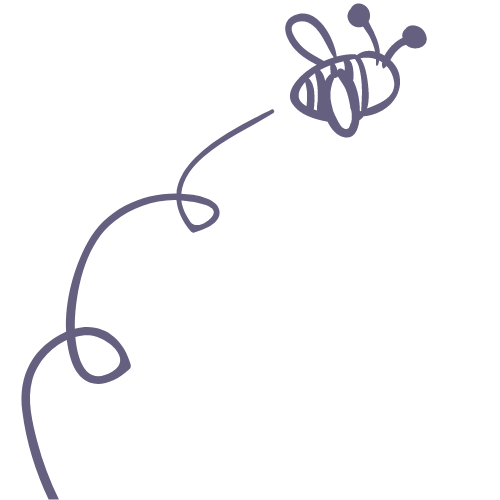
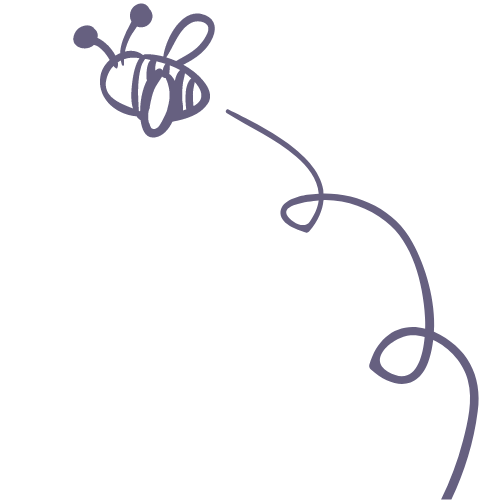
style fixes

diff --git a/src/pages/Calendar.css b/src/pages/Calendar.css
@@ -7,19 +7,17 @@
   max-width: 1000px;
   min-height: 600px;
   height: 800px;
-  border-radius: 10px;
 }
 
 .calendarContainer {
   background-repeat: no-repeat;
   background-size: auto;
-  border-radius: 10px;
-  padding: 2%;
  }
 
 .calendarBody {
   background-image: url("../assets/swe_bug_pattern.png");
   background-position: center;
+  background-attachment: fixed;
 }
 
 .titleText {
@@ -49,10 +47,15 @@
 .iconLabels {
   padding: 0px;
   margin: 0px;
-  color: var(--medium-purple);
 }
 
 .divider {
   border: 1px solid var(--gold);
   width: 150px;
+}
+
+@media screen and (max-width: 600px) {
+  .calendarBody  {
+    background-attachment: scroll;
+  }
 }

diff --git a/src/App.css b/src/App.css
@@ -3,7 +3,7 @@
   --gold:  #DBC554;
   --gray: #A9A8A9;
   --dark-gray: #545759;
-  --light-purple: #e6e2f2;
+  --light-purple: #f3f0fd;
   --medium-purple: #7D6890;
   --max-width: 1100px;
 }
@@ -35,6 +35,10 @@
 .margin {
   padding: 50px 8%;
   overflow: auto;
+}
+
+.center {
+  text-align: center;
 }
 
 @keyframes textAnimation {
@@ -152,6 +156,13 @@ html {
 .em {
   font-family: 'Caveat', cursive;
   font-size: 1.3rem;
+  font-weight: 400;
+  animation: textAnimation 1s linear;
+}
+
+.italic {
+  font-family: 'Caveat', cursive;
+  font-size: 2.0rem;
   font-weight: 400;
   animation: textAnimation 1s linear;
 }

diff --git a/src/pages/Calendar.js b/src/pages/Calendar.js
@@ -11,9 +11,9 @@ function Calendar() {
     <div>
       <div className="margin">
         <h1 className="h2 purple titleText">Our Events</h1>
-        <p className="purple em quote">Bee there or bee square</p>
         <hr className="divider" />
-        <div className="em iconsContainer">
+        <p className="mediumPurple center italic">Bee there or bee square!</p>
+        <div className="purple p1 iconsContainer">
           <div className="iconContainer">
             <img className="purpleFilter eventIcon" src={SocialIcon} alt="" />
             <p className="iconLabels">Social</p>

diff --git a/src/pages/GetInvolved.js b/src/pages/GetInvolved.js
@@ -97,7 +97,7 @@ function GetInvolved() {
       </div>
       <div className="margin lightPurpleBg">
         <p className="h2 purple">Other Programs</p>
-        <p className="em mediumPurple">More ways to get involved!</p>
+        <p className="italic mediumPurple">More ways to get involved!</p>
         <div className="programContainer shadow">
           <div className="programText pgLeftText">
             <p className="h3 mediumPurple">Mentor/Mentee</p>

diff --git a/src/pages/Outreach.js b/src/pages/Outreach.js
@@ -7,7 +7,7 @@ function Outreach() {
   return (
     <div className="margin outreachContainer">
       <p className="h2 purple">K-12 Outreach Programs</p>
-      <p className="em mediumPurple">Bringing engineering to girls in the San Diego community</p>
+      <p className="italic mediumPurple">Bringing engineering to girls in the San Diego community</p>
       {OutreachEvents.map((event, index) => {
         let isRight;
         if (index % 2 === 0) {

diff --git a/src/components/ProjectCard.css b/src/components/ProjectCard.css
@@ -5,13 +5,11 @@
 .flexStart {
   flex-direction: row;
   display: flex;
-  box-shadow: 6px 6px var(--medium-purple);
 }
 
 .flexEnd {
   flex-direction: row-reverse;
   display: flex;
-  box-shadow: -6px 6px var(--medium-purple);
 }
 
 .projectImgContainer {
@@ -31,12 +29,12 @@
 }
 
 .projLabelLeft {
-  margin: 7px;
+  margin: 7px 0px;
   text-align: left;
 }
 
 .projLabelRight {
-  margin: 7px;
+  margin: 7px 0px;
   text-align: right;
 }
 

diff --git a/src/pages/Sponsors.js b/src/pages/Sponsors.js
@@ -5,7 +5,8 @@ import SponsorsInfo from '../data/Sponsors';
 function Sponsors() {
   return (
     <div className="margin">
-      <h1 className="h2 purple">Corporate Sponsors</h1>
+      <h1 className="h2 purple">Sponsors</h1>
+      <p className="italic mediumPurple">Our corporate partners</p>
       <div className="SponsorshipContainer">
         {SponsorsInfo.map((sponsor) => (
           <div className="sponsorImgContainer">

diff --git a/src/components/ProjectCard.js b/src/components/ProjectCard.js
@@ -18,7 +18,7 @@ function ProjectCard(props) {
   return (
     <div className="projectContainer">
       <p className={`${align} h5 purple`}>{name}</p>
-      <div className={flexDir}>
+      <div className={`shadow ${flexDir}`}>
         <div className="p2 project">{description}</div>
         <div style={{ backgroundImage: `url(${image})` }} className="projectImgContainer" />
       </div>

diff --git a/src/data/Projects.js b/src/data/Projects.js
@@ -1,4 +1,4 @@
-import roboticBird from '../assets/projects_imgs/robotic_bird.jpg';
+import roboticBird from '../assets/projects_imgs/robotic_bird.png';
 import steamImg from '../assets/projects_imgs/steam_proj.png';
 import swebsiteImg from '../assets/projects_imgs/swebsite_image.png';
 

diff --git a/src/pages/GetInvolved.css b/src/pages/GetInvolved.css
@@ -100,6 +100,7 @@
 .resourcesContainer {
   display: flex;
   flex-direction: row;
+  margin-top: -20px;
 }
 
 .generalLinks {
@@ -131,7 +132,6 @@
 .beeImg {
   width: 170px;
   height: auto;
-  transform: scaleX(-1);
 }
 
 @media screen and (max-width: 700px) {

diff --git a/src/pages/Attributions.js b/src/pages/Attributions.js
@@ -2,7 +2,7 @@ import React from 'react';
 
 function Attributions() {
   return (
-    <div className="margin">
+    <div className="margin center">
       <p className="p1 darkGray">
         <div className="p2">
           <div>

diff --git a/src/pages/Sponsors.css b/src/pages/Sponsors.css
@@ -11,6 +11,6 @@
   margin: 80px 0px;
   grid-template-columns: repeat(auto-fill, minmax(200px, 1fr));
   grid-template-rows: 1fr;
-  column-gap: 50px;
-  row-gap: 20px;
+  column-gap: 40px;
+  row-gap: 30px;
 }
